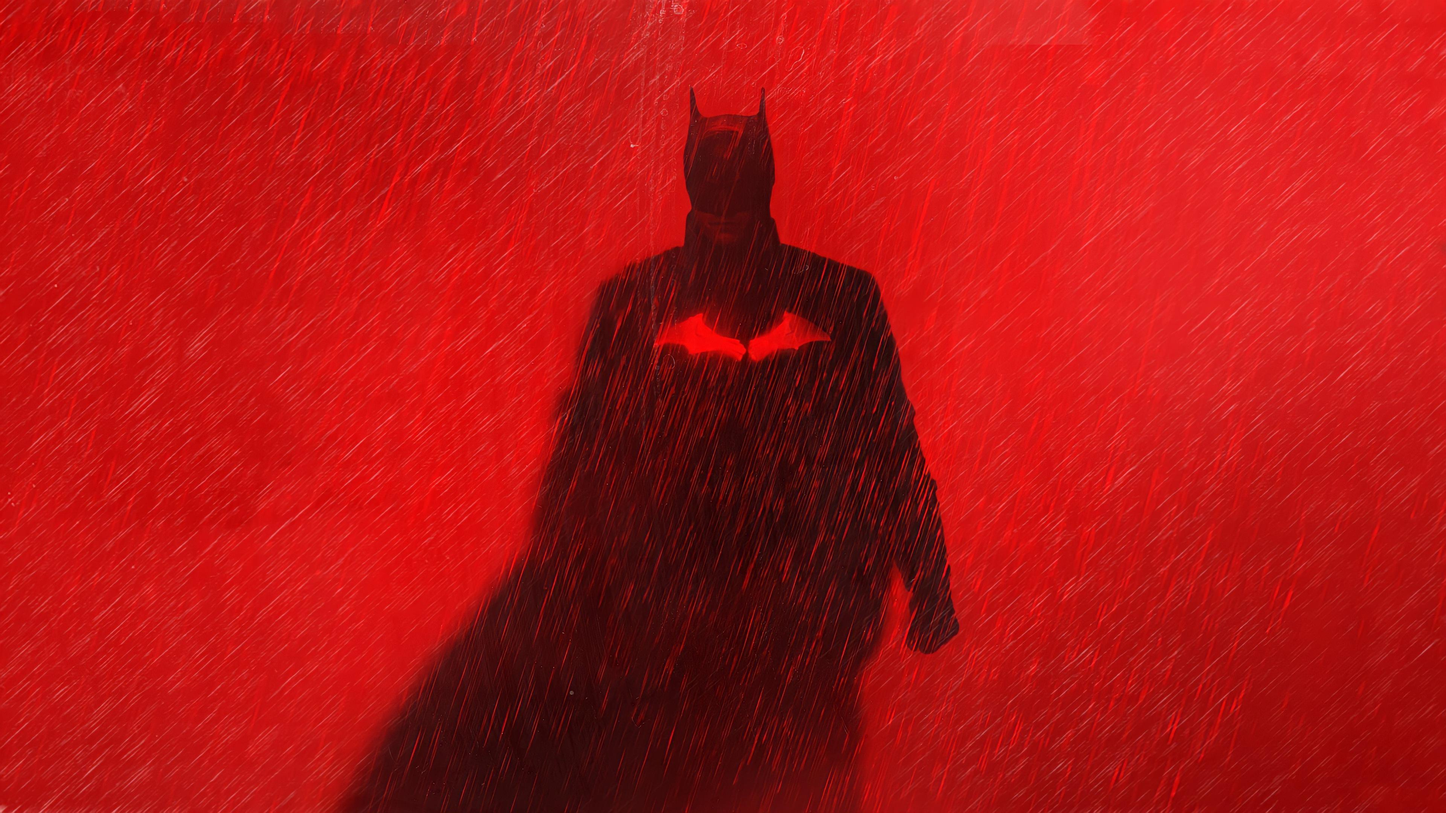
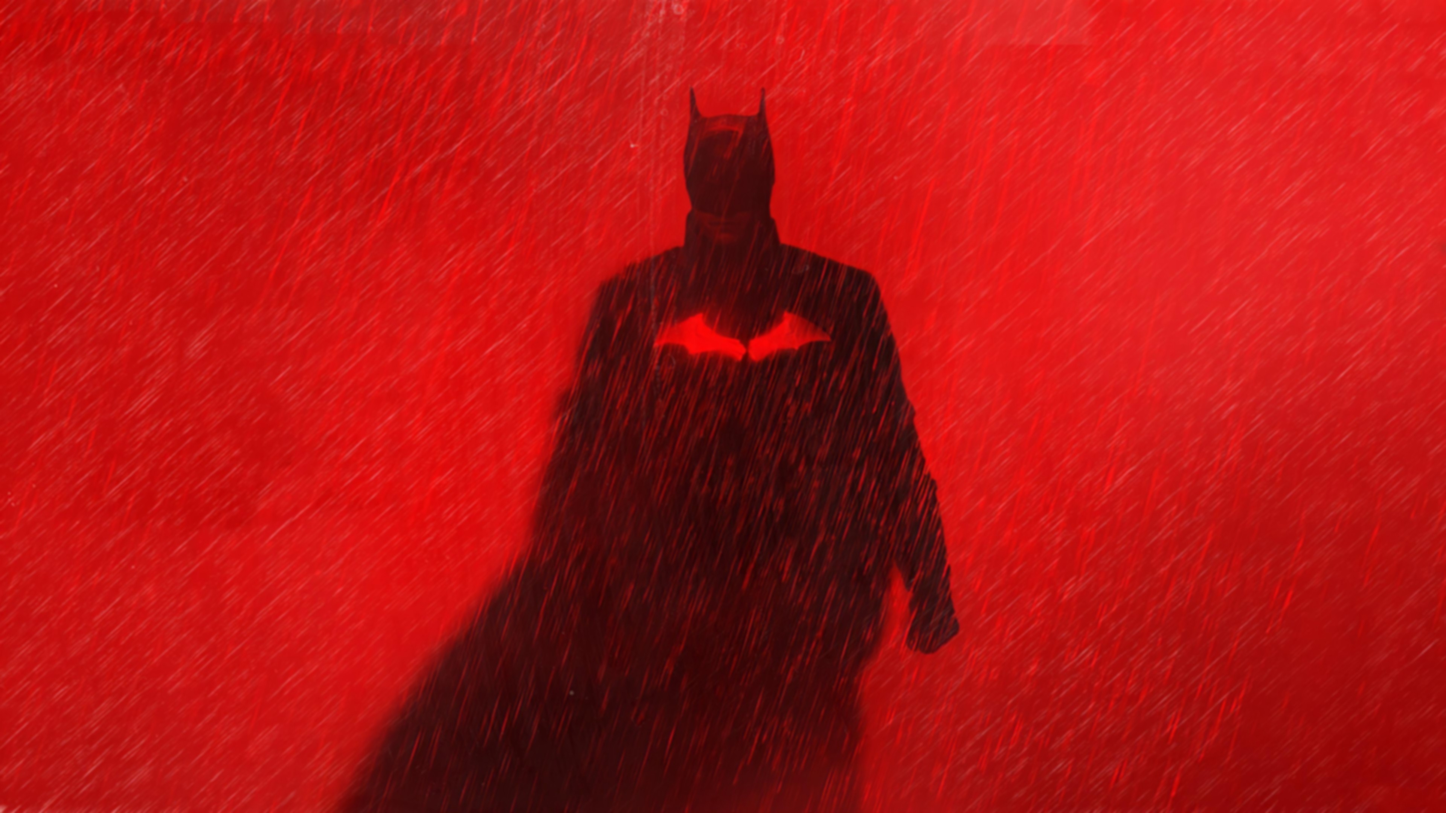
Blur aplicado al fondo del juego y cambio en el titulo

diff --git a/TP4/src/game.html b/TP4/src/game.html
@@ -23,10 +23,10 @@
       <span aria-hidden="true">></span>
       <a href="#">Estrategia</a>
       <span aria-hidden="true">></span>
-      <a href="#" class="active">Batman Peg Solitaire - Escapa del Joker</a>
+      <a href="#" class="active">Batman Peg Solitaire - Recupera Gotham</a>
     </nav>
     <div class="sub-container">
-      <h1 class="page-title h1">Batman Peg Solitaire - Escapa del Joker</h1>
+      <h1 class="page-title h1">Batman Peg Solitaire - Recupera Gotham</h1>
 
       <div id="game-container" class="game-container">
         <div id="game-start-screen">

diff --git a/TP4/src/js/peg_solitaire/view.js b/TP4/src/js/peg_solitaire/view.js
@@ -106,7 +106,7 @@ class View {
                 return;
             }
 
-            ctx.fillStyle = 'rgba(233, 247, 42, 0.8)';
+            ctx.fillStyle = 'rgba(233, 247, 42, 1)';
             ctx.beginPath();
             ctx.arc(x, y, HUECO_SIZE / 2, 0, 2 * Math.PI);
             ctx.fill();
